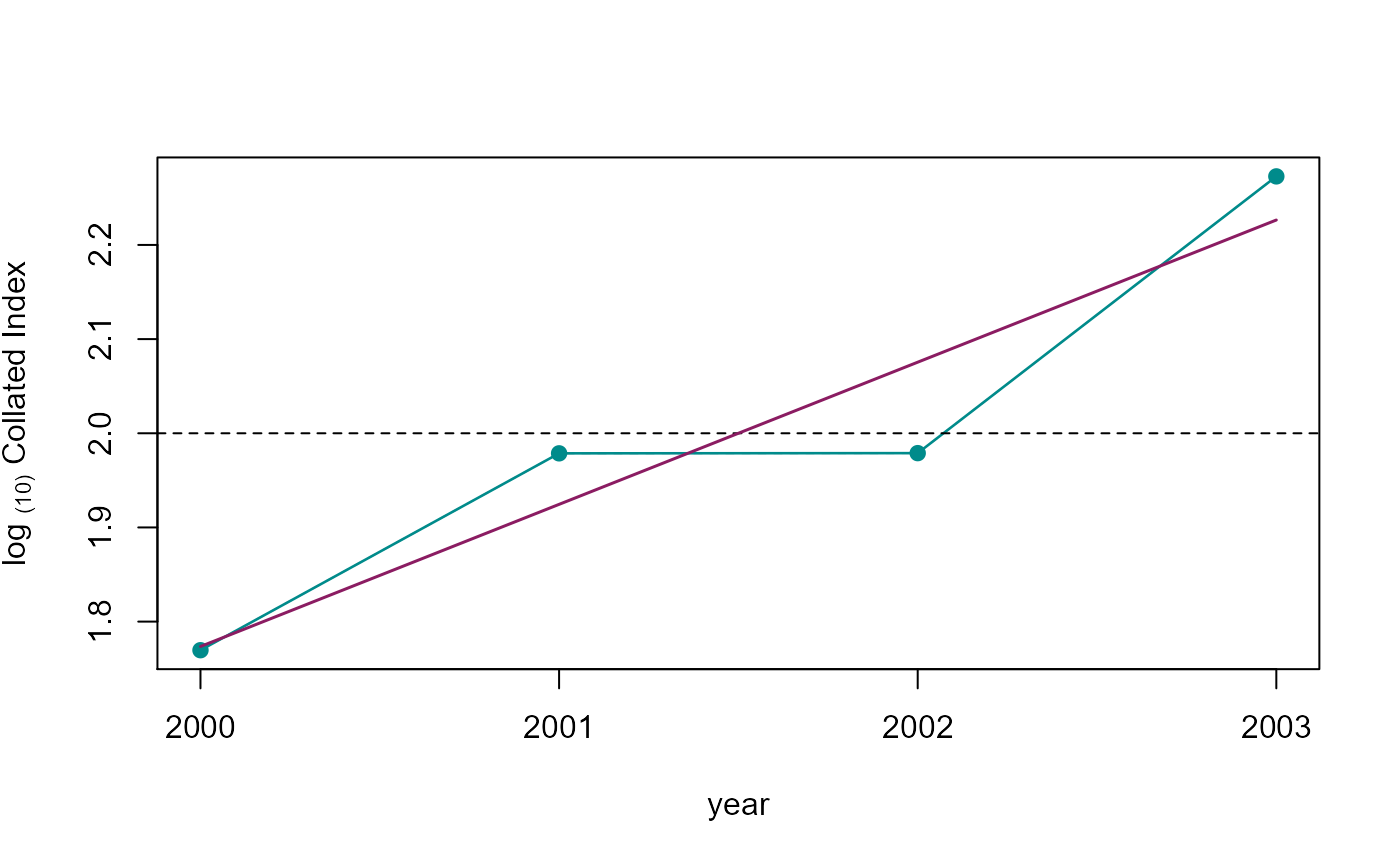
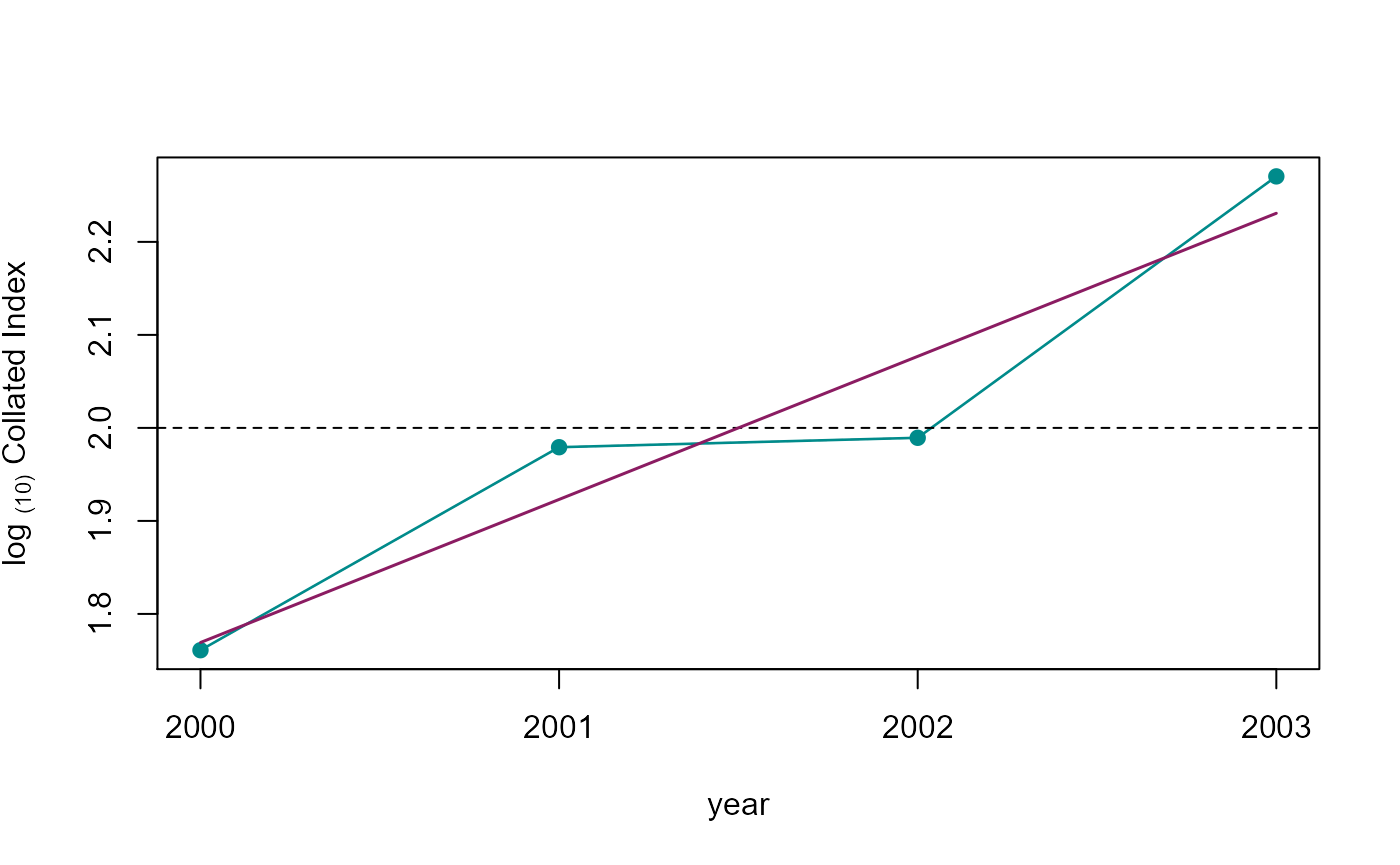
fix citation

diff --git a/docs/articles/Get_Started_2.html b/docs/articles/Get_Started_2.html
@@ -102,7 +102,7 @@
 <div class="sourceCode" id="cb1"><pre class="downlit sourceCode r">
 <code class="sourceCode R"><span class="kw"><a href="https://rdrr.io/r/base/library.html">library</a></span><span class="op">(</span><span class="va"><a href="https://Rdatatable.gitlab.io/data.table">data.table</a></span><span class="op">)</span>
 <span class="kw"><a href="https://rdrr.io/r/base/library.html">library</a></span><span class="op">(</span><span class="va"><a href="https://retoschmucki.github.io/rbms/">rbms</a></span><span class="op">)</span></code></pre></div>
-<pre><code>##  Welcome to rbms, version 1.0.2 
+<pre><code>##  Welcome to rbms, version 1.1.0 
 ##  This package has been tested, but is still in active development and feedbacks are welcome
 ##  https://github.com/RetoSchmucki/rbms/issues</code></pre>
 <div class="sourceCode" id="cb3"><pre class="downlit sourceCode r">
@@ -113,10 +113,10 @@
 <span class="va">ts_season_visit</span> <span class="op">&lt;-</span> <span class="fu">rbms</span><span class="fu">::</span><span class="fu"><a href="../reference/ts_monit_site.html">ts_monit_site</a></span><span class="op">(</span><span class="va">m_visit</span>, <span class="va">ts_season</span><span class="op">)</span>
 <span class="va">ts_season_count</span> <span class="op">&lt;-</span> <span class="fu">rbms</span><span class="fu">::</span><span class="fu"><a href="../reference/ts_monit_count_site.html">ts_monit_count_site</a></span><span class="op">(</span><span class="va">ts_season_visit</span>, <span class="va">m_count</span>, sp <span class="op">=</span> <span class="fl">2</span><span class="op">)</span>
 <span class="va">ts_flight_curve</span> <span class="op">&lt;-</span> <span class="fu">rbms</span><span class="fu">::</span><span class="fu"><a href="../reference/flight_curve.html">flight_curve</a></span><span class="op">(</span><span class="va">ts_season_count</span>, NbrSample <span class="op">=</span> <span class="fl">300</span>, MinVisit <span class="op">=</span> <span class="fl">5</span>, MinOccur <span class="op">=</span> <span class="fl">3</span>, MinNbrSite <span class="op">=</span> <span class="fl">5</span>, MaxTrial <span class="op">=</span> <span class="fl">4</span>, GamFamily <span class="op">=</span> <span class="st">'nb'</span>, SpeedGam <span class="op">=</span> <span class="cn">FALSE</span>, CompltSeason <span class="op">=</span> <span class="cn">TRUE</span>, SelectYear <span class="op">=</span> <span class="cn">NULL</span>, TimeUnit <span class="op">=</span> <span class="st">'w'</span><span class="op">)</span></code></pre></div>
-<pre><code>## [1] "Fitting the flight curve spline for species 2 and year 2000 with 76 sites, using gam() : 2021-02-04 12:43:49 -&gt; trial 1"
-## [1] "Fitting the flight curve spline for species 2 and year 2001 with 76 sites, using gam() : 2021-02-04 12:43:51 -&gt; trial 1"
-## [1] "Fitting the flight curve spline for species 2 and year 2002 with 88 sites, using gam() : 2021-02-04 12:43:52 -&gt; trial 1"
-## [1] "Fitting the flight curve spline for species 2 and year 2003 with 103 sites, using gam() : 2021-02-04 12:43:53 -&gt; trial 1"</code></pre>
+<pre><code>## [1] "Fitting the flight curve spline for species 2 and year 2000 with 76 sites, using gam() : 2021-02-04 13:30:54 -&gt; trial 1"
+## [1] "Fitting the flight curve spline for species 2 and year 2001 with 76 sites, using gam() : 2021-02-04 13:30:56 -&gt; trial 1"
+## [1] "Fitting the flight curve spline for species 2 and year 2002 with 88 sites, using gam() : 2021-02-04 13:30:57 -&gt; trial 1"
+## [1] "Fitting the flight curve spline for species 2 and year 2003 with 103 sites, using gam() : 2021-02-04 13:30:58 -&gt; trial 1"</code></pre>
 <div id="impute-predicted-counts-for-missing-monitoring-dates" class="section level5">
 <h5 class="hasAnchor">
 <a href="#impute-predicted-counts-for-missing-monitoring-dates" class="anchor"></a><strong>4.</strong> Impute predicted counts for missing monitoring dates</h5>
@@ -164,10 +164,10 @@
 <p>The collated index computed by the <code><a href="../reference/collated_index.html">collated_index()</a></code> function can be interpreted as the mean total butterfly count expected on a BMS transect in a given year.</p>
 <pre><code>## $col_index
 ##    BOOTi M_YEAR NSITE NSITE_OBS COL_INDEX
-## 1:     0   2000   124       108  19.23040
-## 2:     0   2001   108       100  31.12038
-## 3:     0   2002   114       107  31.13623
-## 4:     0   2003   122       113  61.25559
+## 1:     0   2000   124       107  18.24001
+## 2:     0   2001   108       100  30.14931
+## 3:     0   2002   114       107  30.85993
+## 4:     0   2003   122       112  58.94461
 ## 
 ## $site_id
 ##   [1] "1"   "14"  "157" "158" "159" "160" "161" "162" "163" "164" "165" "166"

diff --git a/docs/articles/Get_Started_1.html b/docs/articles/Get_Started_1.html
@@ -101,7 +101,7 @@
 <a href="#load-package-and-data-included-in-the-package" class="anchor"></a>1. load package and data included in the package</h5>
 <div class="sourceCode" id="cb1"><pre class="downlit sourceCode r">
 <code class="sourceCode R"><span class="kw"><a href="https://rdrr.io/r/base/library.html">library</a></span><span class="op">(</span><span class="va"><a href="https://retoschmucki.github.io/rbms/">rbms</a></span><span class="op">)</span></code></pre></div>
-<pre><code>##  Welcome to rbms, version 1.0.2 
+<pre><code>##  Welcome to rbms, version 1.1.0 
 ##  This package has been tested, but is still in active development and feedbacks are welcome
 ##  https://github.com/RetoSchmucki/rbms/issues</code></pre>
 <div class="sourceCode" id="cb3"><pre class="downlit sourceCode r">
@@ -178,10 +178,10 @@
 <p>These values can influence the model and its sensitivity will depend on the species and the data set, but as a minimum requirement, MinOccur should be set &gt;= 2, the MinNbrVisit &gt; MinOccur and MinNbrSite &gt;= 5. These thresholds affect the data that inform your model and the resulting flight curve. When higher values are chosen, fewer sites will be available and if insufficient, the thresholds need to be revised.</p>
 <div class="sourceCode" id="cb10"><pre class="downlit sourceCode r">
 <code class="sourceCode R"> <span class="va">ts_flight_curve</span> <span class="op">&lt;-</span> <span class="fu">rbms</span><span class="fu">::</span><span class="fu"><a href="../reference/flight_curve.html">flight_curve</a></span><span class="op">(</span><span class="va">ts_season_count</span>, NbrSample <span class="op">=</span> <span class="fl">300</span>, MinVisit <span class="op">=</span> <span class="fl">5</span>, MinOccur <span class="op">=</span> <span class="fl">3</span>, MinNbrSite <span class="op">=</span> <span class="fl">5</span>, MaxTrial <span class="op">=</span> <span class="fl">4</span>, GamFamily <span class="op">=</span> <span class="st">'nb'</span>, SpeedGam <span class="op">=</span> <span class="cn">FALSE</span>, CompltSeason <span class="op">=</span> <span class="cn">TRUE</span>, SelectYear <span class="op">=</span> <span class="cn">NULL</span>, TimeUnit <span class="op">=</span> <span class="st">'w'</span><span class="op">)</span></code></pre></div>
-<pre><code>## [1] "Fitting the flight curve spline for species 2 and year 2000 with 76 sites, using gam() : 2021-02-04 12:43:17 -&gt; trial 1"
-## [1] "Fitting the flight curve spline for species 2 and year 2001 with 76 sites, using gam() : 2021-02-04 12:43:19 -&gt; trial 1"
-## [1] "Fitting the flight curve spline for species 2 and year 2002 with 88 sites, using gam() : 2021-02-04 12:43:21 -&gt; trial 1"
-## [1] "Fitting the flight curve spline for species 2 and year 2003 with 103 sites, using gam() : 2021-02-04 12:43:23 -&gt; trial 1"</code></pre>
+<pre><code>## [1] "Fitting the flight curve spline for species 2 and year 2000 with 76 sites, using gam() : 2021-02-04 13:30:26 -&gt; trial 1"
+## [1] "Fitting the flight curve spline for species 2 and year 2001 with 76 sites, using gam() : 2021-02-04 13:30:28 -&gt; trial 1"
+## [1] "Fitting the flight curve spline for species 2 and year 2002 with 88 sites, using gam() : 2021-02-04 13:30:29 -&gt; trial 1"
+## [1] "Fitting the flight curve spline for species 2 and year 2003 with 103 sites, using gam() : 2021-02-04 13:30:30 -&gt; trial 1"</code></pre>
 <blockquote>
 <p>NOTE: for the <code>flight_curve</code> function, you will also have to define some parameters for the distribution for the GAM model as well as the maximum number of times to try to fit the model and the number of samples to use. The later will take a random sample from the data set if it contains more site than the number specified.</p>
 </blockquote>

diff --git a/docs/index.html b/docs/index.html
@@ -90,7 +90,7 @@
 <div id="suggested-citation-for-the-rbms-package" class="section level4">
 <h4 class="hasAnchor">
 <a href="#suggested-citation-for-the-rbms-package" class="anchor"></a>Suggested citation for the rbms package</h4>
-<p>Schmucki R., Harrower C.A., Dennis E.B. (2020) rbms: Computing generalised abundance indices for butterfly monitoring count data. R package version 1.0.2. <a href="https://github.com/RetoSchmucki/rbms" class="uri">https://github.com/RetoSchmucki/rbms</a></p>
+<p>Schmucki R., Harrower C.A., Dennis E.B. (2021) rbms: Computing generalised abundance indices for butterfly monitoring count data. R package version 1.1.0. <a href="https://github.com/RetoSchmucki/rbms" class="uri">https://github.com/RetoSchmucki/rbms</a></p>
 </div>
 <div id="the-rbms-package-implements-methods-from" class="section level4">
 <h4 class="hasAnchor">
